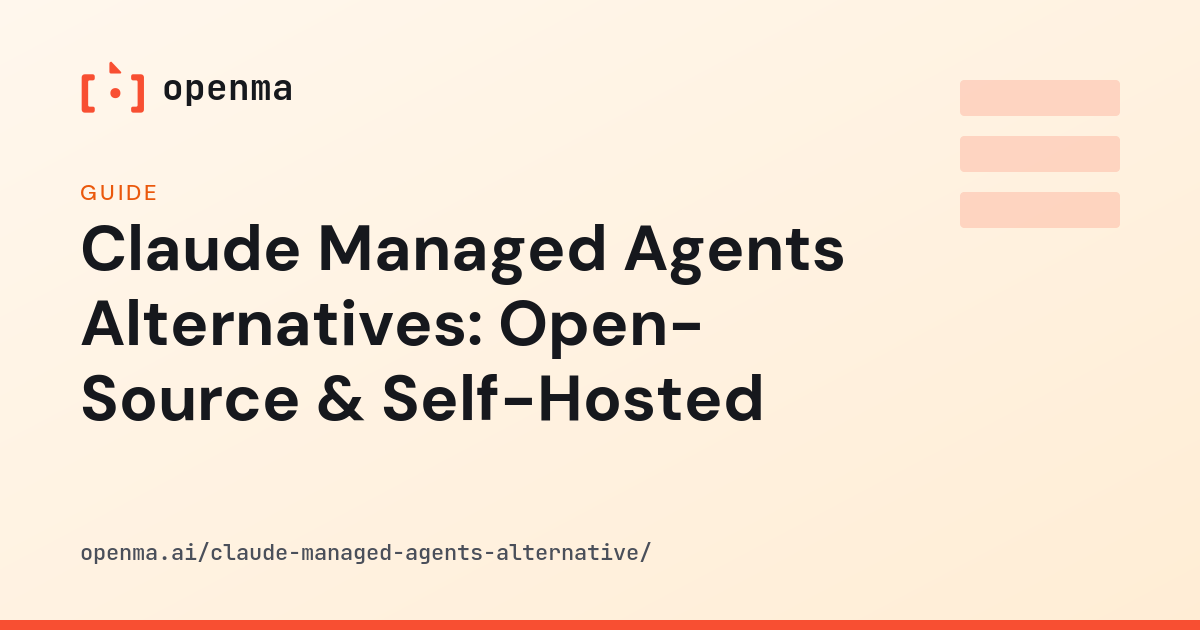
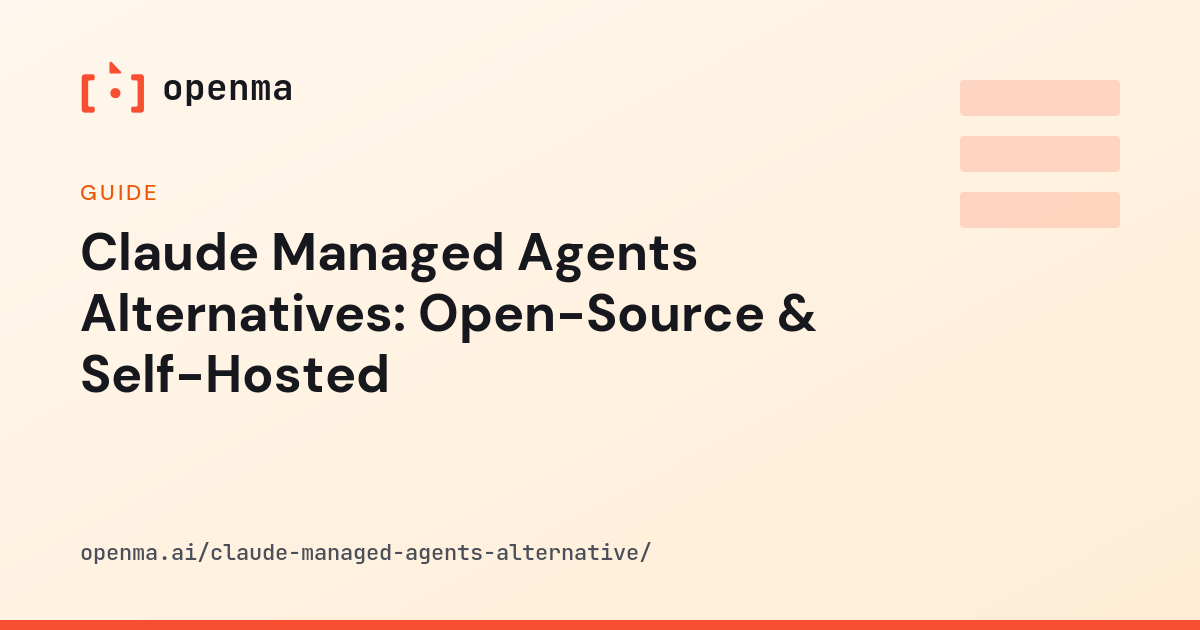
fix(web): tighten guide card copy and fix OG card rendering
- Homepage guide notes: drop list-of-three phrasing and a claim the
  open-source AI agents page does not support.
- OG cards: no line breaks inside hyphenated words, CJK face for
  Chinese titles (opensandbox-intro rendered as tofu), Claude Tag
  card headlines now match their page titles.

Changed region(s): [[0.0617, 0.3619, 0.7092, 0.6635]]

diff --git a/apps/web/scripts/og-images.py b/apps/web/scripts/og-images.py
@@ -27,18 +27,18 @@ LANDING = {
     "what-is-claude-managed-agents": "What Is Claude Managed Agents?",
     "open-source-ai-agents": "Open-Source AI Agents & Agent Platforms",
     "claude-tag-alternative": "Open-Source, Self-Hosted Claude Tag Alternative",
-    "claude-tag-open-source": "Open-Source Claude Tag Foundation",
-    "self-hosted-claude-tag": "Self-Hosted Claude Tag-Style Workflows",
+    "claude-tag-open-source": "Open-Source Claude Tag: Build Tag-Style Agents",
+    "self-hosted-claude-tag": "Self-Hosted Claude Tag: Open-Source Runtime for Tag-Style Agents",
 }
 
 def card(headline: str, eyebrow: str, path: str) -> str:
     size, width = 64, 24
-    # cairosvg has no per-glyph fallback, so CJK titles get a CJK face.
-    family = "Noto Serif CJK SC" if re.search(r"[\u3000-\u9fff]", headline) else "DM Sans"
-    lines = textwrap.wrap(headline, width)
+    lines = textwrap.wrap(headline, width, break_on_hyphens=False)
     if len(lines) > 3:
         size, width = 52, 30
-        lines = textwrap.wrap(headline, width)
+        lines = textwrap.wrap(headline, width, break_on_hyphens=False)
+    # cairosvg has no per-glyph fallback, so CJK titles get a CJK face.
+    family = "Noto Serif CJK SC" if re.search(r"[\u3000-\u9fff]", headline) else "DM Sans"
     top = 300 if len(lines) < 3 else 270
     tspans = "".join(
         f'<tspan x="80" y="{top + i * int(size * 1.18)}">{escape(l)}</tspan>'
